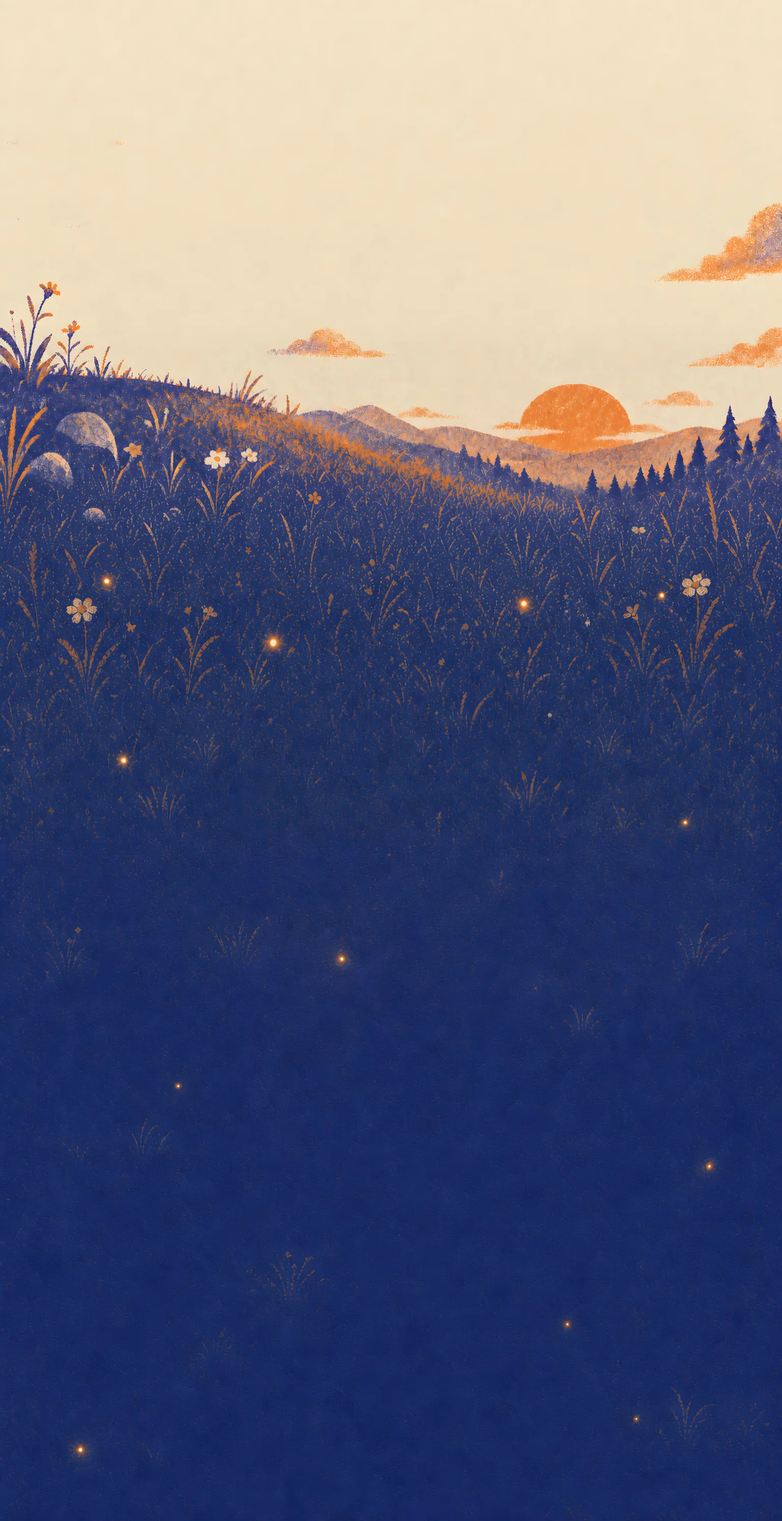
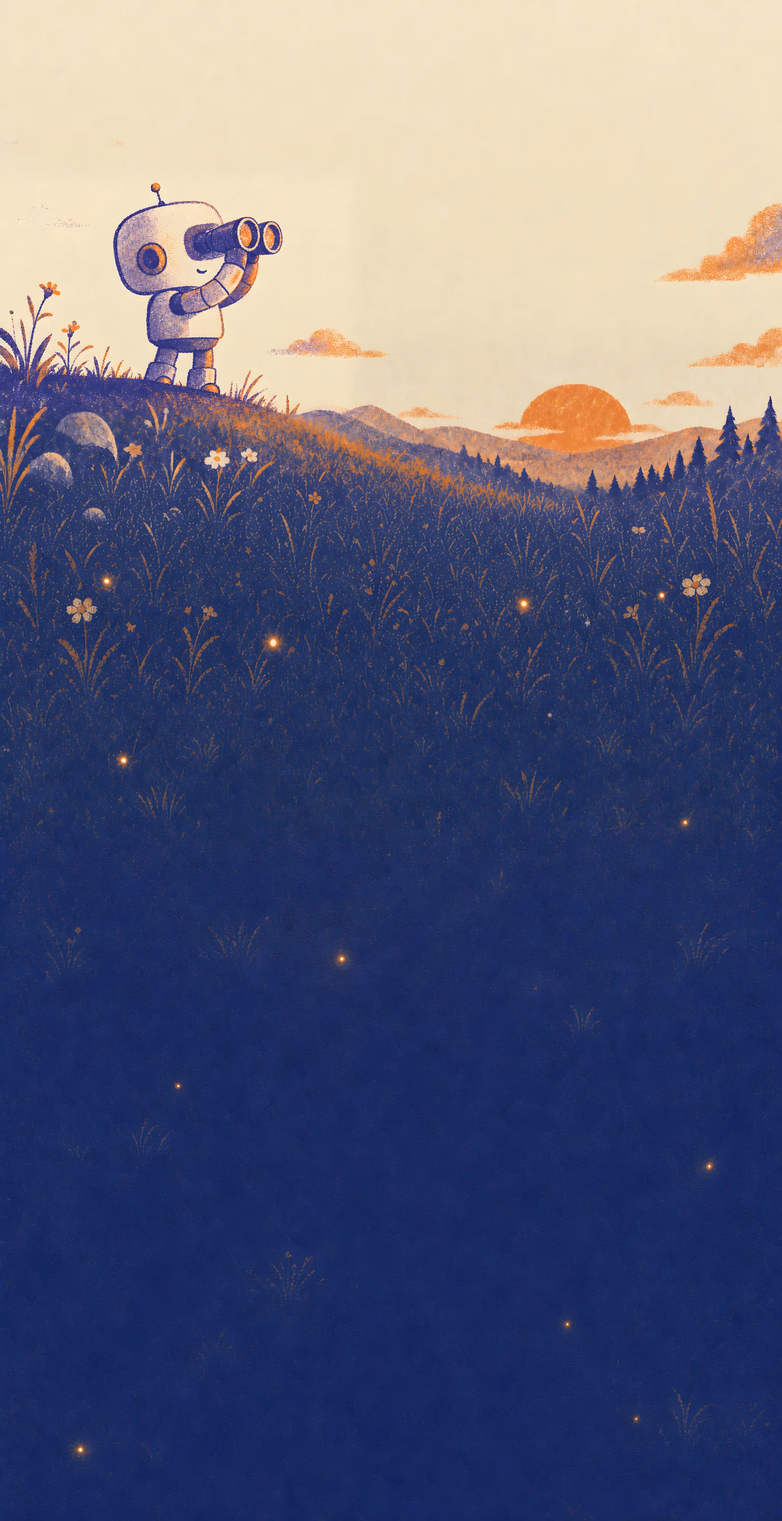
bake robot into the painting; passport-stamp crawler view with click explanations; mobile + overflow + text-clearance fixes

Changed region(s): [[0.0, 0.1245, 0.375, 0.2801], [0.375, 0.2179, 0.4375, 0.249]]

diff --git a/public/style.css b/public/style.css
@@ -66,6 +66,8 @@ a { color: var(--violet); }
 
 /* ---------- postcard hero (layered: bg plate / robot / floating window) ---------- */
 
+html, body { overflow-x: clip; }
+
 .postcard {
   position: relative;
   min-height: 92vh;
@@ -104,7 +106,8 @@ a { color: var(--violet); }
 .hero-copy {
   position: absolute;
   left: 6%;
-  top: 9vh;
+  /* vw-anchored like the painting: keeps the text block above the robot's antenna (painting y~390 = 25.4vw) at every aspect ratio */
+  top: clamp(44px, 4.2vw, 88px);
   max-width: 46vw;
   z-index: 3;
 }
@@ -127,22 +130,7 @@ a { color: var(--violet); }
 }
 
 /* the robot layer — cut from the plate, breathes gently, gazes at the window */
-.hero-unit {
-  position: absolute;
-  left: -1vw;
-  bottom: 2vh;
-  width: clamp(300px, min(38vw, 52vh), 640px);
-  pointer-events: none;
-  user-select: none;
-}
-.hero-unit .unit-base { display: block; width: 100%; height: auto; }
-.hero-unit video {
-  position: absolute;
-  left: 16.61%;
-  top: -0.32%;
-  width: 66.96%;
-  clip-path: inset(0 0 8.9% 0);
-}
+
 @keyframes breathe {
   from { transform: translateY(0) rotate(0deg); }
   to { transform: translateY(-6px) rotate(-0.5deg); }
@@ -318,33 +306,57 @@ h2 {
 .verdict-sub { margin: 0; color: var(--violet-soft); font-weight: 600; }
 .verdict.all-clear .verdict-num { color: var(--orange-deep); text-shadow: 4px 4px 0 var(--violet-soft); }
 
-/* crawler chips */
-.tier-group { margin-bottom: 14px; }
-.tier-label {
-  font-weight: 700;
+/* crawler passport stamps */
+.stamps { display: flex; flex-wrap: wrap; gap: 9px; }
+.stamp {
+  font-family: "IBM Plex Mono", monospace;
   font-size: 13px;
-  text-transform: uppercase;
-  letter-spacing: 1px;
-  color: var(--violet-soft);
-  margin-bottom: 6px;
-}
-.chips { display: flex; flex-wrap: wrap; gap: 8px; }
-.chip {
   font-weight: 700;
-  font-size: 14px;
-  padding: 4px 12px;
-  border-radius: 999px;
-  border: 2px solid var(--violet);
-  background: var(--paper);
-  color: var(--violet-deep);
-  cursor: default;
+  padding: 5px 12px;
+  border: 2.5px solid var(--violet);
+  border-radius: 6px 9px 7px 10px / 9px 6px 10px 7px;
+  color: var(--violet);
+  background: transparent;
+  cursor: pointer;
+  transition: background 0.12s ease;
 }
-.chip.ok { border-color: var(--violet); }
-.chip.ok::before { content: "✓ "; color: var(--violet); }
-.chip.blocked { border-color: var(--orange-deep); background: #f9e0cd; color: var(--orange-deep); }
-.chip.blocked::before { content: "✗ "; }
-.chip.neutral { border-color: var(--violet-soft); color: var(--violet-soft); background: transparent; }
-.chip.neutral::before { content: "– "; }
+.stamp.no {
+  border-color: var(--orange-deep);
+  color: var(--orange-deep);
+  background: #f9e0cd;
+  transform: rotate(-1.5deg);
+}
+.stamp.train { border-color: var(--violet-soft); color: var(--violet-soft); border-style: dashed; }
+.stamp.neutral { border-color: var(--violet-soft); color: var(--violet-soft); opacity: 0.8; }
+.stamp:hover { background: var(--orange-soft); color: var(--violet-deep); }
+.stamp.open { background: var(--violet); color: var(--paper); border-color: var(--violet); transform: none; }
+.stamp.open.no { background: var(--orange-deep); border-color: var(--orange-deep); }
+
+.stamp-detail {
+  margin-top: 12px;
+  padding: 14px 16px;
+  border: 2.5px dashed var(--violet-soft);
+  border-radius: 12px 15px 13px 16px / 15px 12px 16px 13px;
+  background: var(--paper-light);
+  animation: rise-in 0.2s cubic-bezier(0.23, 1, 0.32, 1);
+}
+.sd-head { font-weight: 800; color: var(--violet-deep); margin-bottom: 4px; }
+.sd-purpose { margin: 0 0 10px; color: var(--violet); }
+.sd-rows { display: grid; gap: 5px; }
+.sd-row { display: flex; gap: 12px; align-items: baseline; }
+.sd-k {
+  font-family: "IBM Plex Mono", monospace;
+  font-size: 12px;
+  font-weight: 600;
+  color: var(--violet-soft);
+  min-width: 148px;
+  text-align: right;
+}
+.sd-v { font-weight: 600; color: var(--violet-deep); }
+.sd-v.good::before { content: "\2713 "; color: var(--violet); }
+.sd-v.bad { color: var(--orange-deep); }
+.sd-v.bad::before { content: "\2717 "; }
+.sd-note { margin: 10px 0 0; font-size: 14px; color: var(--violet-soft); font-weight: 600; }
 
 /* entrances: settle curve in, sharper/shorter out */
 #report:not([hidden]) { animation: rise-in 0.26s cubic-bezier(0.23, 1, 0.32, 1); }
@@ -475,15 +487,18 @@ footer {
 footer a { color: var(--violet); }
 
 @media (max-width: 760px) {
-  body { background-image: url("/assets/scene-sm.webp"); background-size: 235% auto; background-position: 50% top; }
+  body { background-image: url("/assets/scene-sm.webp"); background-size: 235% auto; background-position: 24% top; }
   .postcard { min-height: 96vh; }
-  .topbar { padding: 14px 18px; }
-  .topbar nav a { margin-left: 12px; font-size: 14px; }
-  .hero-copy { position: static; max-width: none; padding: 3vh 22px 0; text-align: center; }
-  .sky-window { position: static; width: min(470px, 92vw); margin: 4vh auto 0; }
+  .topbar { padding: 14px 12px; }
+  .topbar nav a { margin-left: 10px; font-size: 13px; }
+  .wordmark { font-size: 20px; }
+  .hero-copy { position: static; max-width: none; padding: 3vh 20px 0; text-align: center; }
+  .tagline br { display: none; }
+  .tagline { max-width: 92vw; margin: 0 auto; }
+  .sky-window { position: static; width: min(470px, 92vw); margin: max(24px, calc(88vw - 245px)) auto 0; }
+  .api-table td { word-break: break-word; }
   .sky-window-body { flex-direction: column; }
-  .hero-unit { width: clamp(240px, 62vw, 400px); left: 0; bottom: 4vw; }
-  .hero { padding-bottom: 44vw; } /* room for the robot below the window */
+  .hero { padding-bottom: 46vw; } /* hill continues below the window */
   .paper-card { padding: 20px 18px; }
 
 }
@@ -494,5 +509,5 @@ footer a { color: var(--violet); }
   html { scroll-behavior: auto; }
   .btn-secondary, #scan-btn, #url-input, .probe-cells .cell { transition: none; }
   #report:not([hidden]), #fixkit:not([hidden]), .check-error:not([hidden]) { animation: none; }
-  .hero-unit, .sky-window { animation: none; }
+  .sky-window { animation: none; }
 }

diff --git a/public/app.js b/public/app.js
@@ -2,11 +2,10 @@
 
 const $ = (id) => document.getElementById(id);
 
-const TIER_LABELS = {
-  citation: "citation path — these get you cited in AI answers",
+const TIER_NAMES = {
+  citation: "citation path — gets you cited in AI answers",
   index: "search index",
-  secondary: "secondary assistants",
-  training: "training-only — blocking these does NOT hurt your visibility",
+  secondary: "secondary assistant",
 };
 
 // mirrors the server's probe sequence (src/report.ts) — shown while the real probes run
@@ -160,38 +159,66 @@ function render(data) {
   document.querySelector(".verdict").classList.toggle(
     "all-clear", data.headline.visible === data.headline.total);
 
-  // crawler chips by tier
+  // crawler passport stamps — click one for its story
   const groups = $("crawler-groups");
   groups.innerHTML = "";
-  const byTier = {};
+  const field = el("div", "stamps");
+  const detail = el("div", "stamp-detail");
+  detail.hidden = true;
+  let active = null;
   for (const c of data.crawlers) {
-    const key = c.trainingOnly ? "training" : c.tier;
-    (byTier[key] ||= []).push(c);
-  }
-  for (const tier of ["citation", "index", "secondary", "training"]) {
-    if (!byTier[tier]) continue;
-    const g = el("div", "tier-group");
-    g.appendChild(el("div", "tier-label", TIER_LABELS[tier] || tier));
-    const chips = el("div", "chips");
-    for (const c of byTier[tier]) {
-      let cls, title;
-      if (c.robots === null && c.edge === null) { // policy tokens (no UA to probe)
-        cls = "neutral";
-        title = `${c.name}: policy token — not probeable directly`;
-      } else if (c.canRead) {
-        cls = "ok";
-        title = `${c.name} (${c.operator}): can read this page`;
-      } else {
-        cls = tier === "training" ? "neutral" : "blocked";
-        title = `${c.name} (${c.operator}): blocked by ${c.blockedBy || "unknown"}`;
+    const policy = !c.robots && !c.edge;
+    const cls = c.canRead ? "ok" : policy ? "neutral" : c.trainingOnly ? "train" : "no";
+    const mark = c.canRead ? "\u2713 " : policy ? "\u00b7 " : "\u2717 ";
+    const s = el("button", `stamp ${cls}`, mark + c.name);
+    s.type = "button";
+    s.setAttribute("aria-expanded", "false");
+    s.addEventListener("click", () => {
+      if (active === s) {
+        detail.hidden = true;
+        s.classList.remove("open");
+        s.setAttribute("aria-expanded", "false");
+        active = null;
+        return;
       }
-      const chip = el("span", `chip ${cls}`, c.name);
-      chip.title = title;
-      chips.appendChild(chip);
-    }
-    g.appendChild(chips);
-    groups.appendChild(g);
+      if (active) { active.classList.remove("open"); active.setAttribute("aria-expanded", "false"); }
+      active = s;
+      s.classList.add("open");
+      s.setAttribute("aria-expanded", "true");
+      detail.innerHTML = "";
+      const kind = c.trainingOnly ? "training-only" : (TIER_NAMES[c.tier] || c.tier);
+      detail.appendChild(el("div", "sd-head", `${c.name} \u00b7 ${c.operator} \u00b7 ${kind}`));
+      if (c.purpose) detail.appendChild(el("p", "sd-purpose", c.purpose));
+      const rows = el("div", "sd-rows");
+      const row = (k, v, good) => {
+        const r = el("div", "sd-row");
+        r.appendChild(el("span", "sd-k", k));
+        r.appendChild(el("span", "sd-v" + (good === true ? " good" : good === false ? " bad" : ""), v));
+        rows.appendChild(r);
+      };
+      if (policy) {
+        row("probe", "policy token \u2014 sends no requests of its own; it only acts through robots.txt rules", null);
+      } else {
+        const rv = c.robots?.verdict || "unknown";
+        row(
+          "robots.txt",
+          rv === "block"
+            ? "blocked" + (c.robots?.matchedAgent ? ` (rule: ${c.robots.matchedAgent})` : "")
+            : rv.replace(/-/g, " "),
+          rv !== "block"
+        );
+        if (c.edge != null) row("edge, as this crawler", c.edge === "pass" ? "server sent the page" : String(c.edge), c.edge === "pass");
+      }
+      row("verdict", c.canRead ? "can read this page" : c.blockedBy || "cannot read this page", c.canRead ? true : c.trainingOnly ? null : false);
+      detail.appendChild(rows);
+      if (!c.canRead && c.trainingOnly)
+        detail.appendChild(el("p", "sd-note", "Training-only crawler \u2014 blocking it does not cost you visibility in AI answers."));
+      detail.hidden = false;
+    });
+    field.appendChild(s);
   }
+  groups.appendChild(field);
+  groups.appendChild(detail);
 
   // findings
   const list = $("findings");
@@ -319,7 +346,7 @@ $("copy-prompt").addEventListener("click", async () => {
 
 // reduced motion: freeze the robot on his poster frame
 if (matchMedia("(prefers-reduced-motion: reduce)").matches) {
-  const rv = document.querySelector(".hero-unit video");
+  const rv = null;
   if (rv) { rv.removeAttribute("autoplay"); rv.pause(); rv.load(); }
 }
 

diff --git a/public/index.html b/public/index.html
@@ -33,7 +33,7 @@
   <section class="hero">
     <div class="hero-copy">
       <h1 class="riso-title">can AI see<br>your site?</h1>
-      <p class="tagline">Real HTTP probes against your pages, as 17 AI crawlers.<br>No accounts. No AI tokens. Just the truth, in seconds.</p>
+      <p class="tagline">Real HTTP probes against your pages, as 17 AI crawlers. <br>No accounts. No AI tokens. Just the truth, in seconds.</p>
     </div>
     <form id="scan-form" class="sky-window" autocomplete="off">
       <div class="sky-window-bar"><span></span><span></span><span></span></div>
@@ -44,14 +44,7 @@
       </div>
       <p class="hero-note">robots.txt <em>and</em> edge behavior · JS-blindness · llms.txt · fix kit</p>
     </form>
-    <div class="hero-unit" aria-hidden="true">
-      <img class="unit-base" src="/assets/unit.webp" alt="">
-      <video poster="/assets/robot2.webp"
-             autoplay muted loop playsinline disablepictureinpicture>
-        <source src="/assets/robot-idle2.mov" type='video/quicktime; codecs="hvc1"'>
-        <source src="/assets/robot-idle2.webm" type='video/webm; codecs="vp9"'>
-      </video>
-    </div>
+
   </section>
 </div>
 
